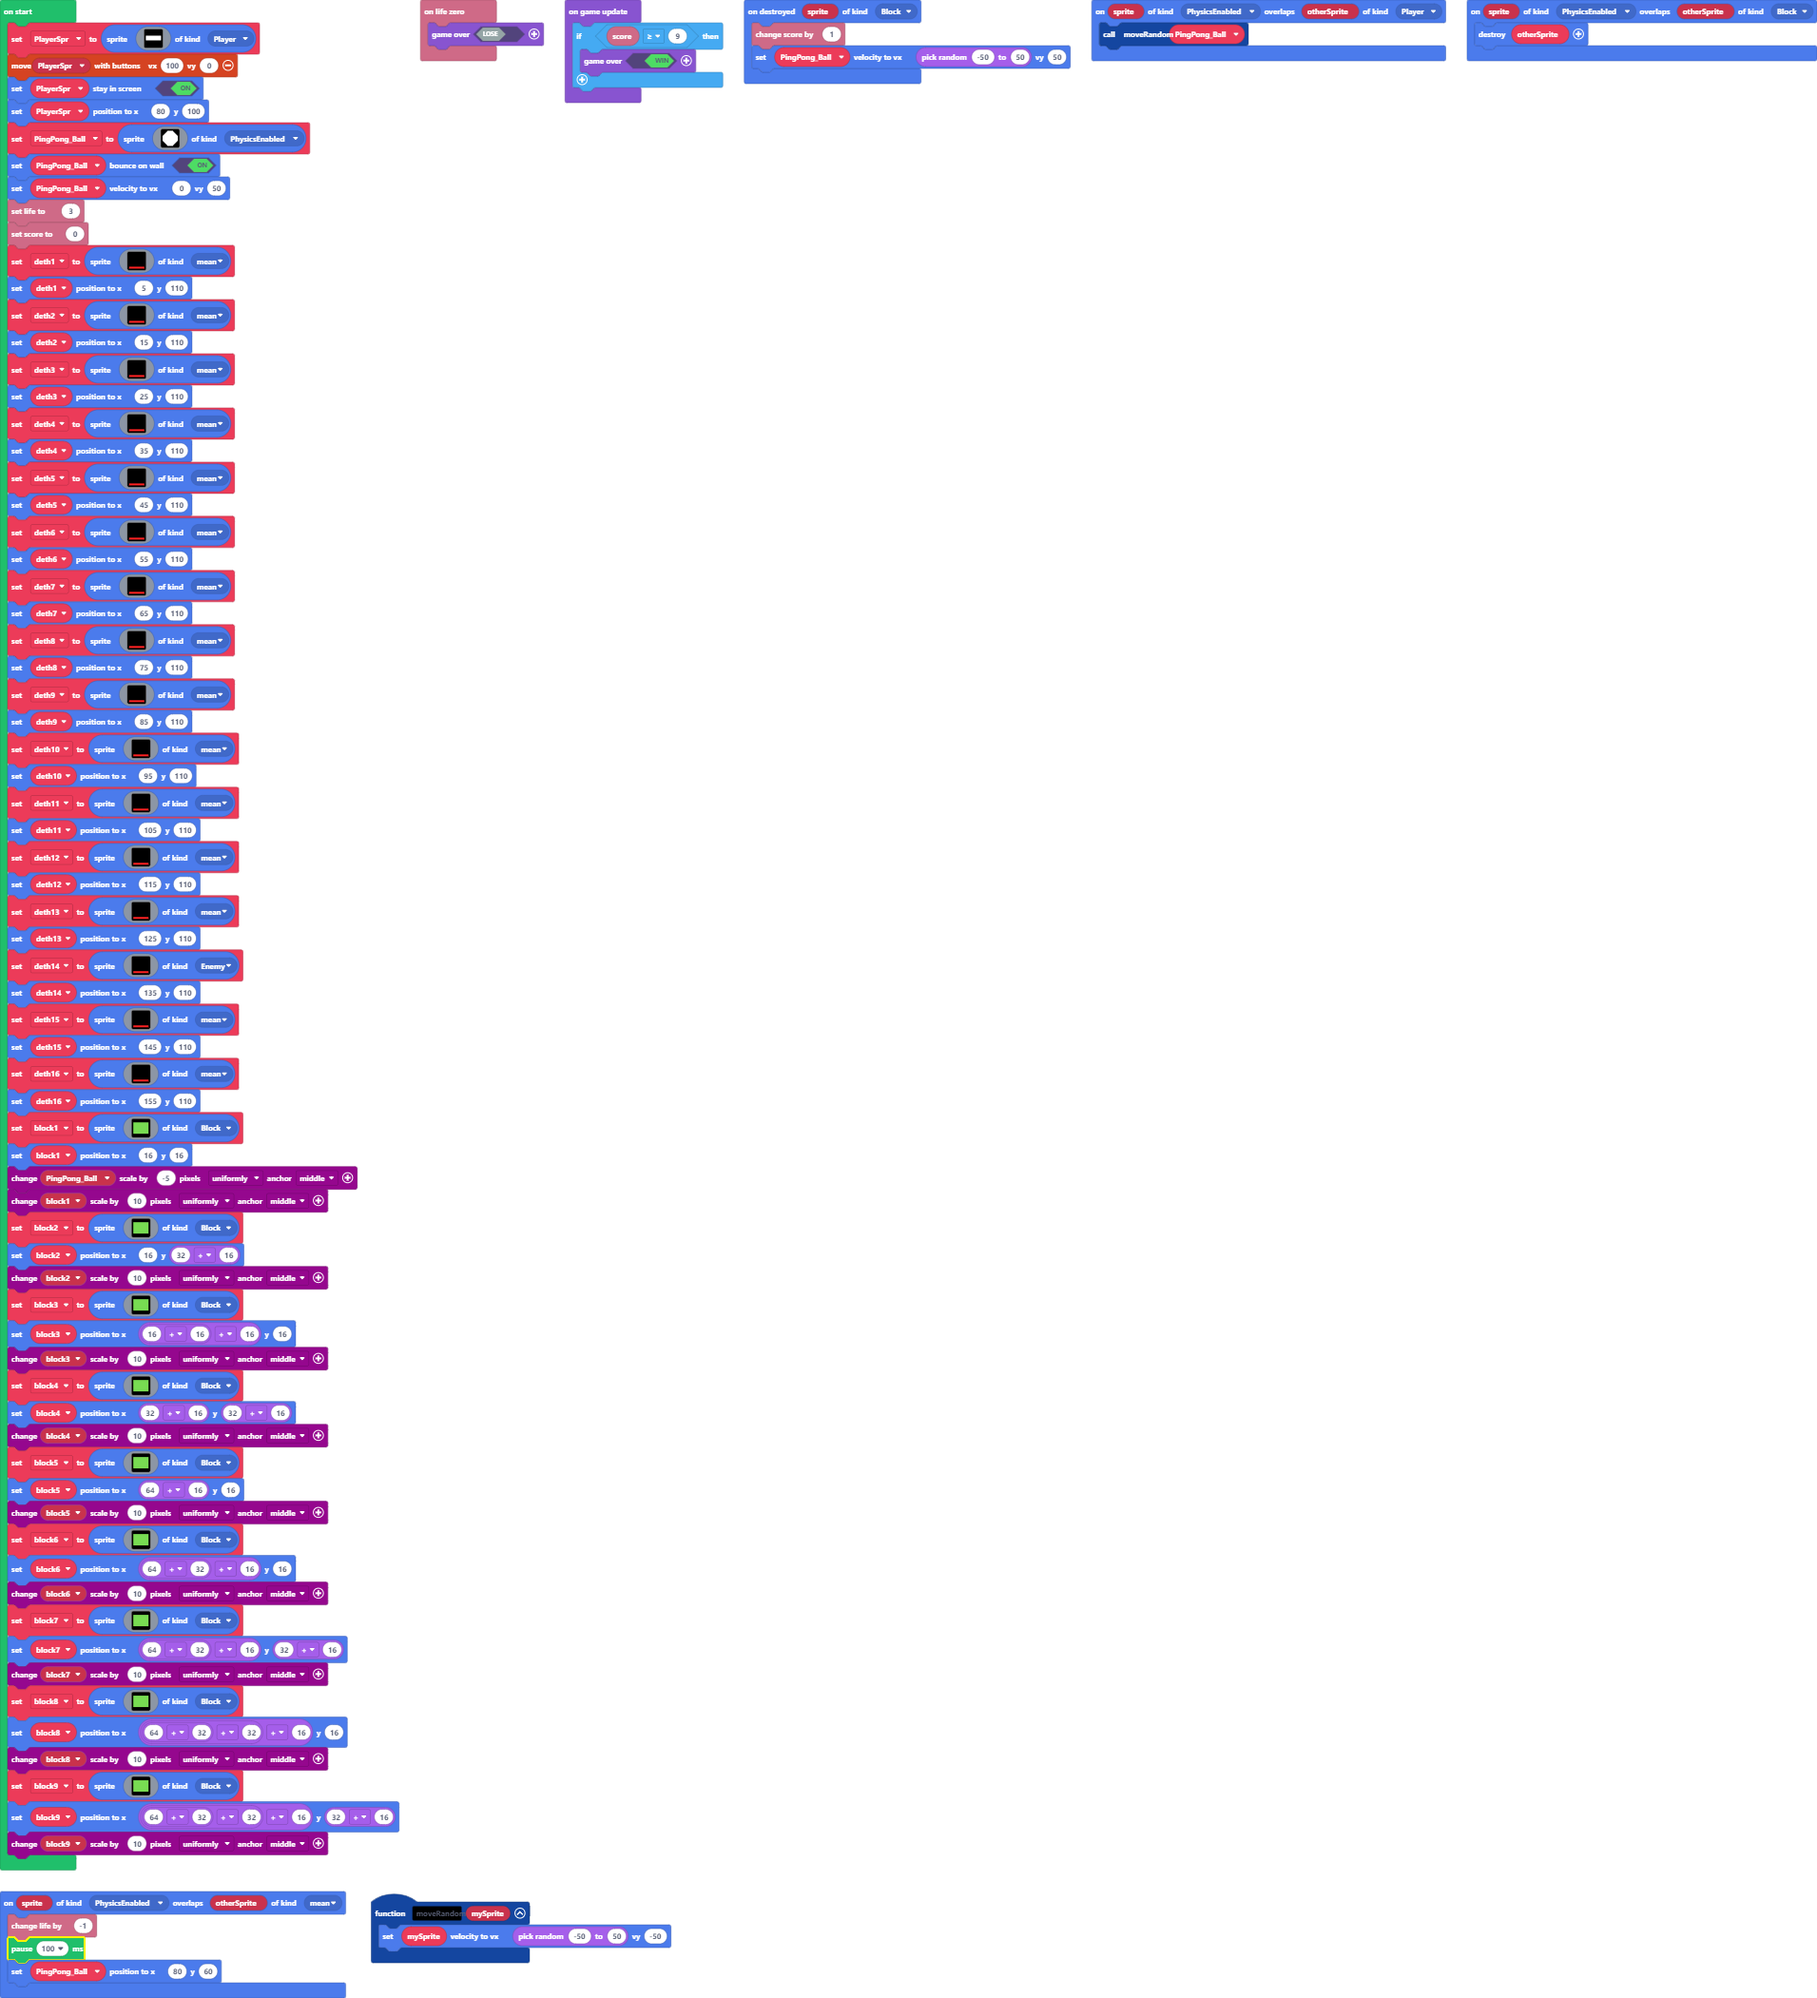
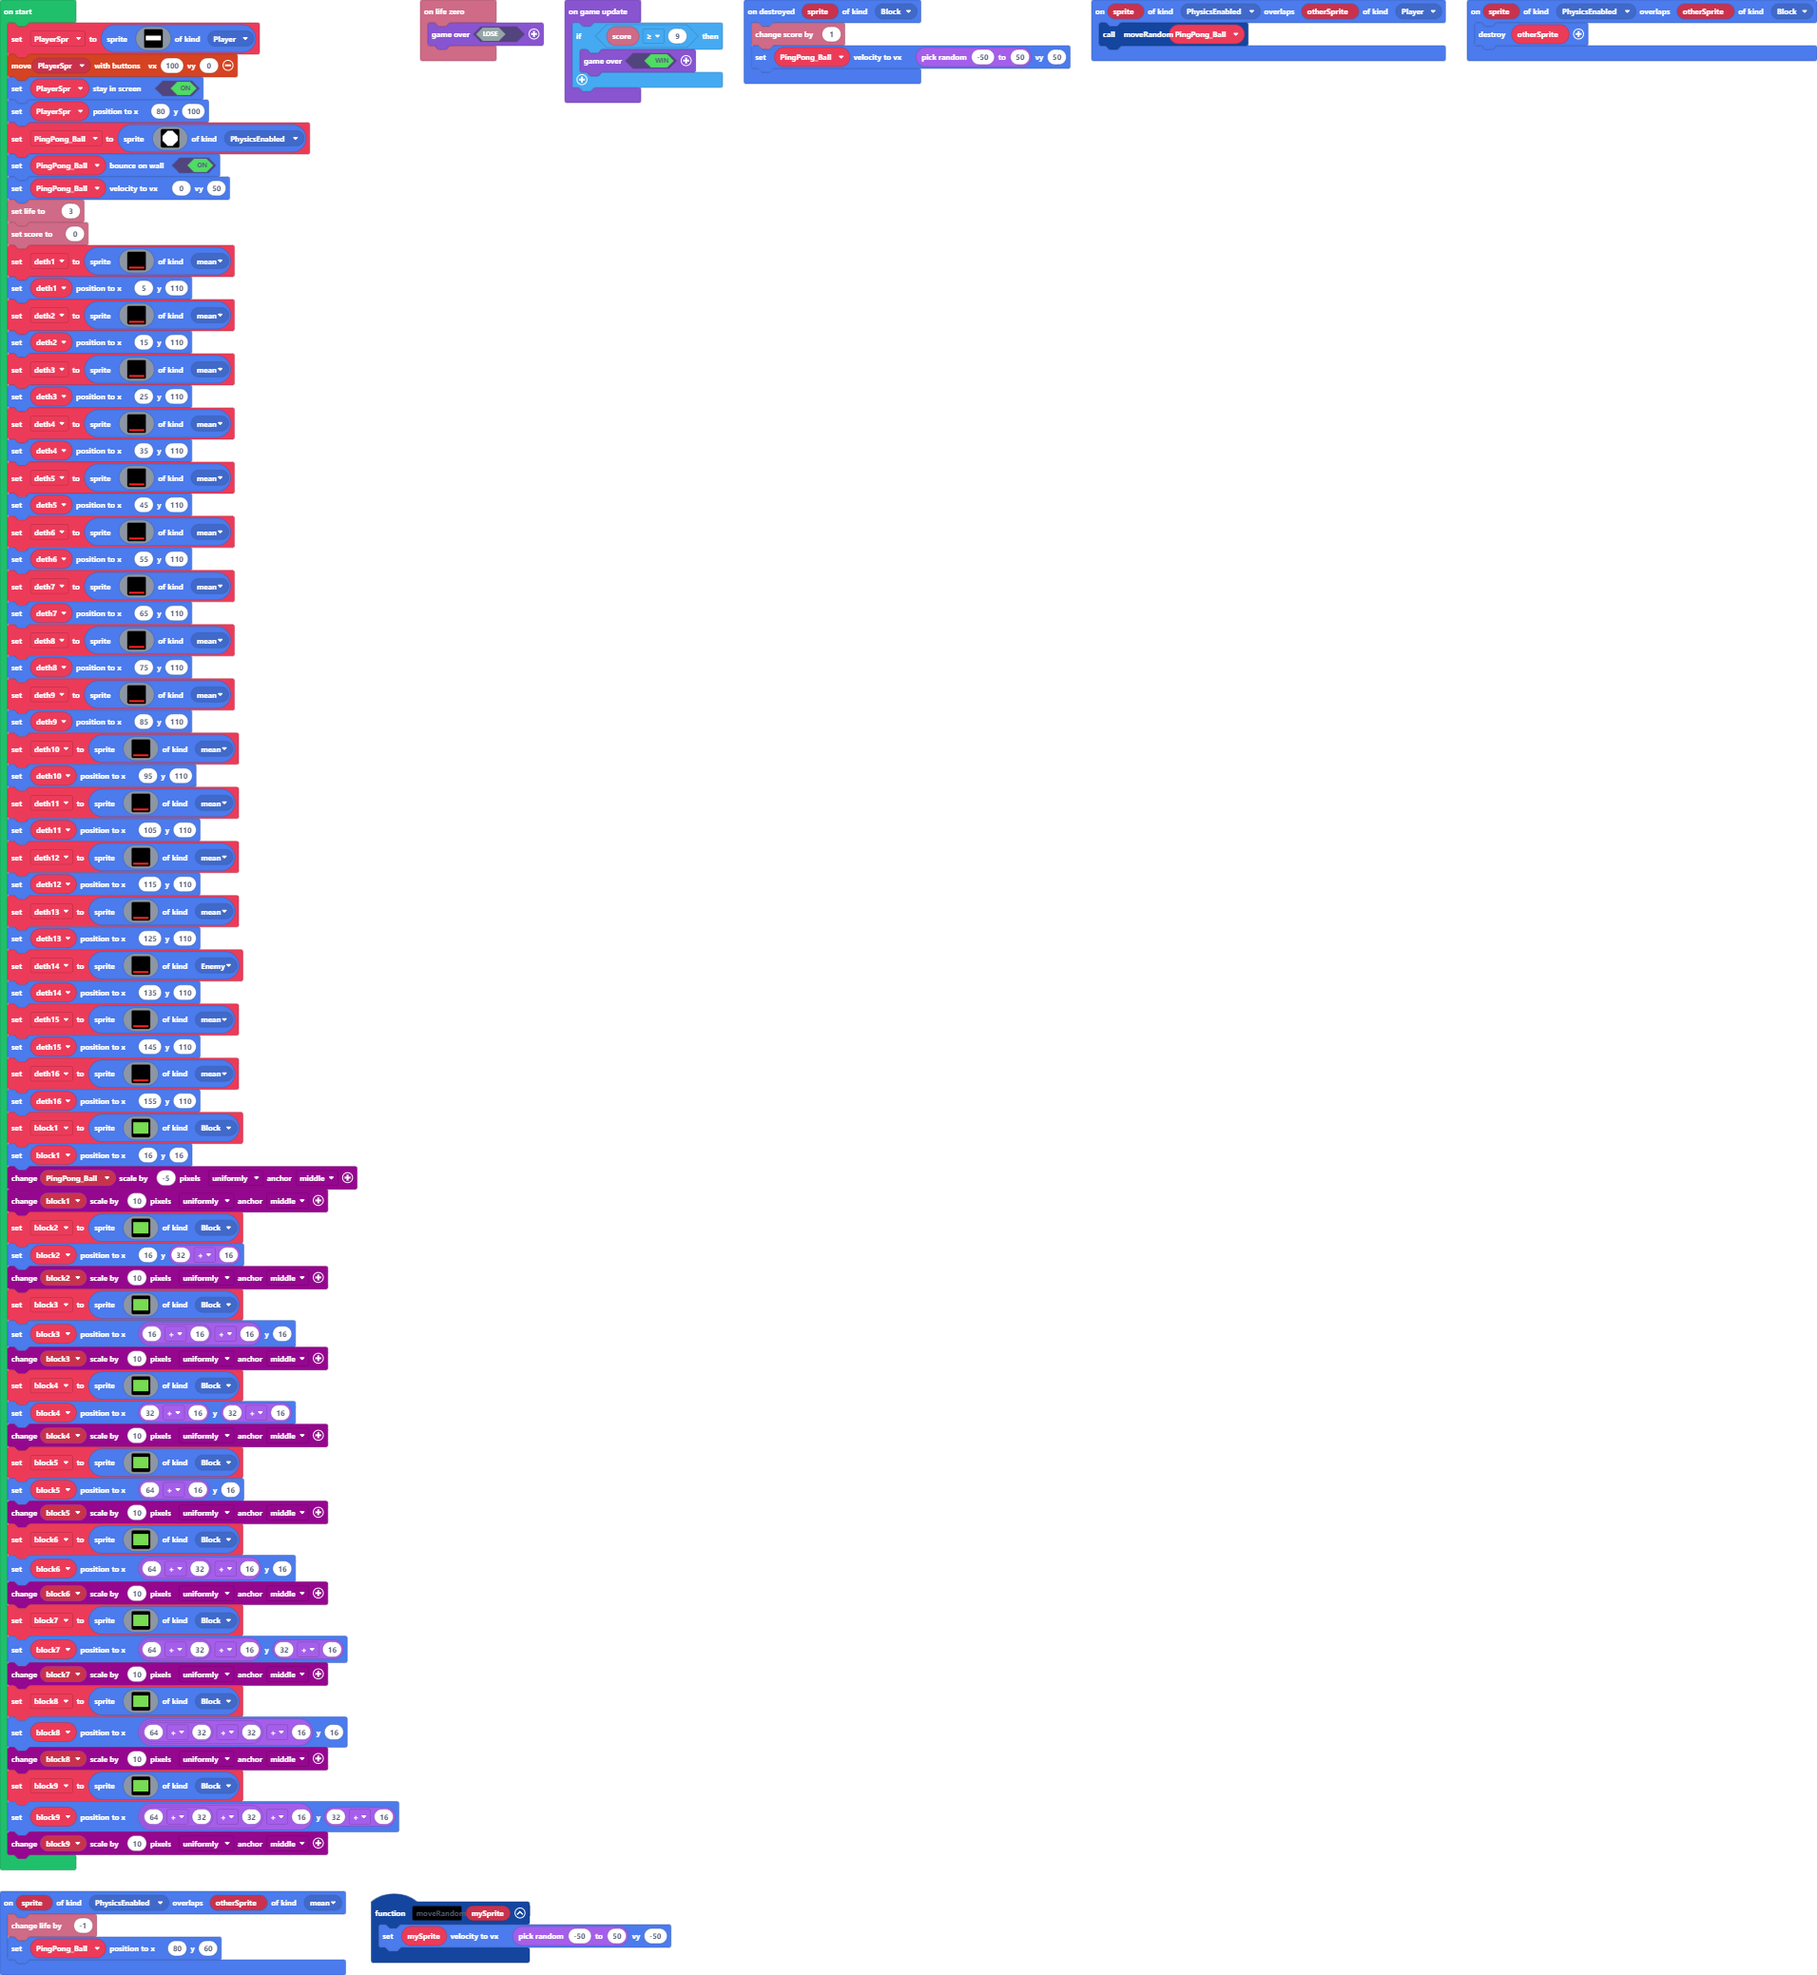
Update main.blocks, main.ts

diff --git a/main.ts b/main.ts
@@ -10,7 +10,6 @@ sprites.onDestroyed(SpriteKind.Block, function (sprite) {
 })
 sprites.onOverlap(SpriteKind.PhysicsEnabled, SpriteKind.mean, function (sprite, otherSprite) {
     info.changeLifeBy(-1)
-    pause(100)
     PingPong_Ball.setPosition(80, 60)
 })
 sprites.onOverlap(SpriteKind.PhysicsEnabled, SpriteKind.Player, function (sprite, otherSprite) {
